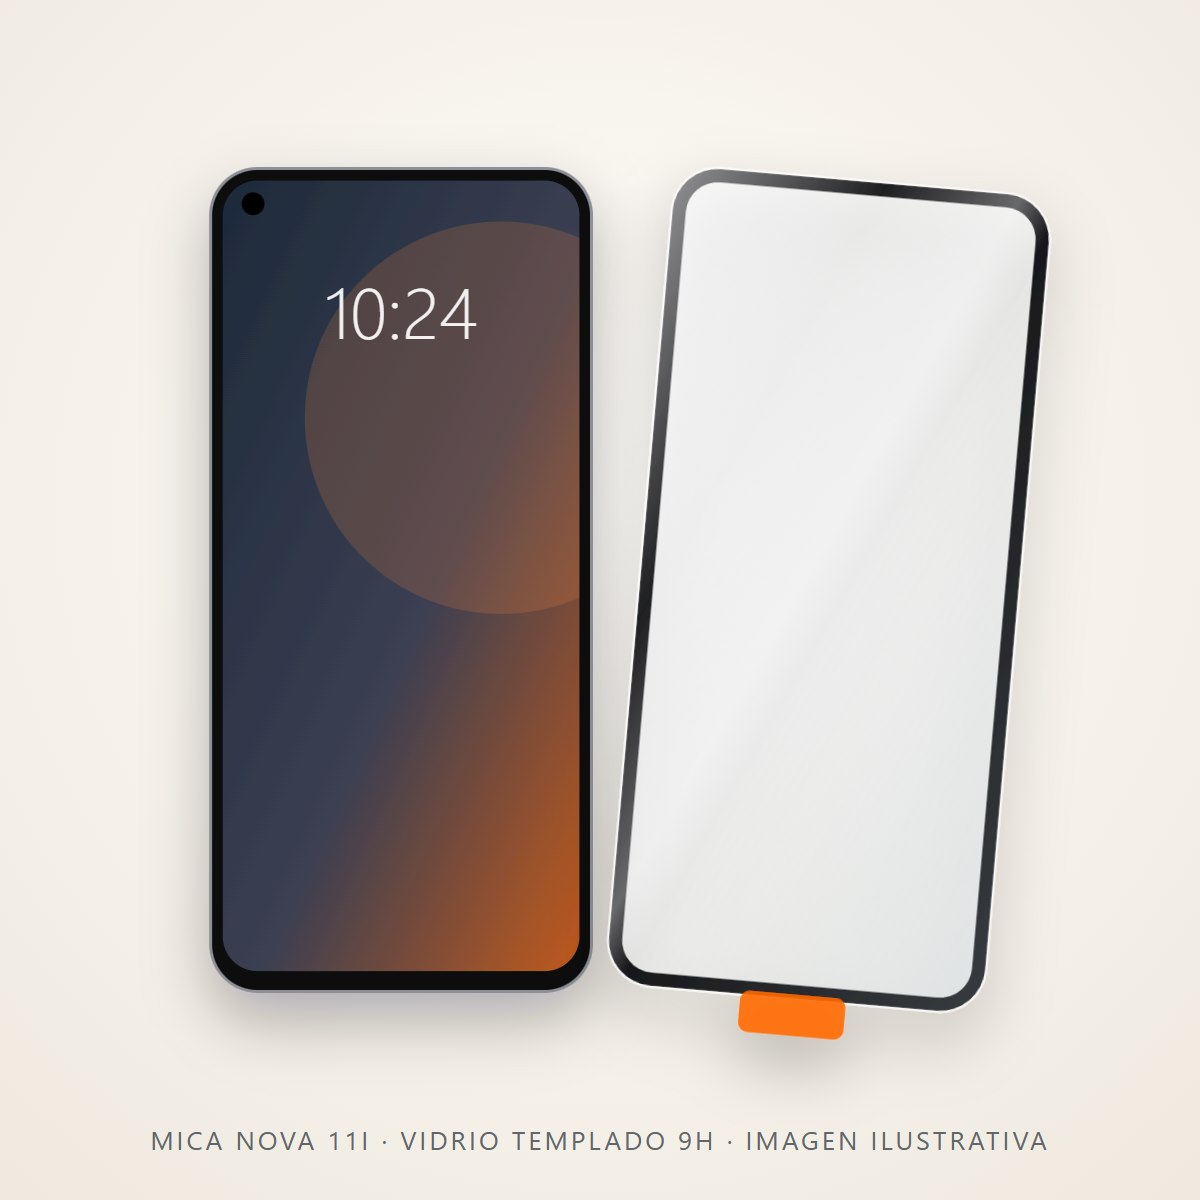
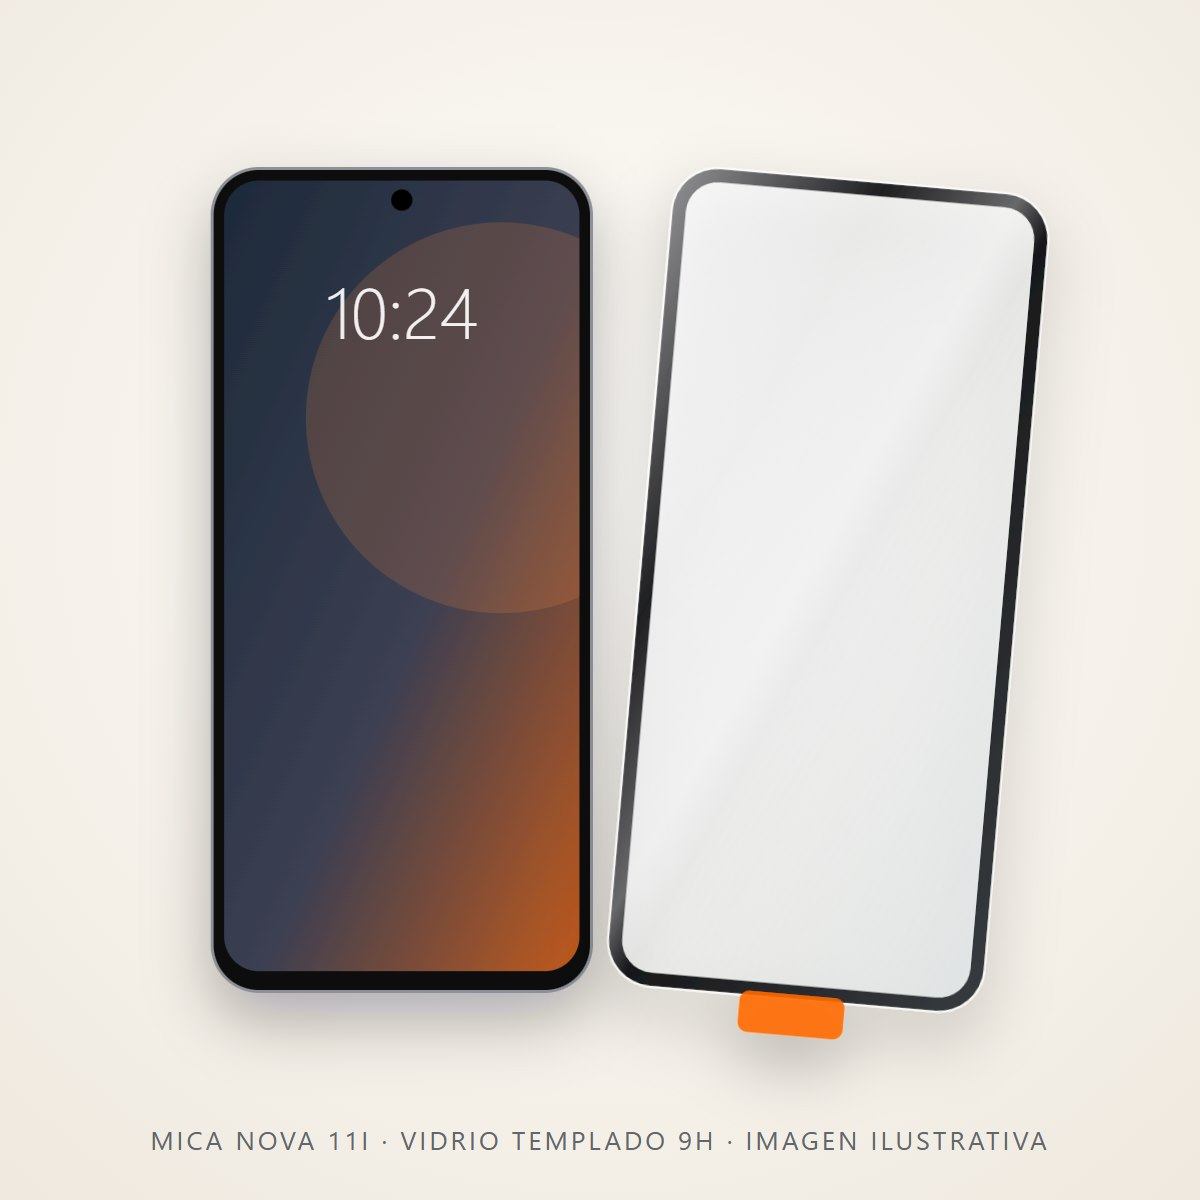
Datos reales del teléfono y fotos reales de cada modelo
Ficha con pantalla, medidas, lanzamiento y versión compatible de cada
teléfono; fotos libres de Wikimedia de 13 modelos en la galería con
créditos; corrige el render del nova 11i (perforación centrada).

diff --git a/tools/render-modelos.js b/tools/render-modelos.js
@@ -4,16 +4,16 @@
 // como themes/case-tech/demo-<tipo>-<modelo>.jpg. Para un modelo nuevo, añádelo a MODELS y JOBS.
 async (page) => {
 
-// Medidas reales aproximadas (mm) y tipo de recorte de pantalla de cada modelo.
+// Medidas reales (mm, fichas del fabricante/Wikipedia) y tipo de recorte de pantalla de cada modelo.
 const MODELS = {
   'iphone-15':     { name: 'iPhone 15',     w: 71.6, h: 147.6, r: 0.17, bezel: 0.035, chin: 0.035, cut: 'island', home: true },
   'iphone-13':     { name: 'iPhone 13',     w: 71.5, h: 146.7, r: 0.17, bezel: 0.035, chin: 0.035, cut: 'notch',  home: true },
   'galaxy-a15':    { name: 'Galaxy A15',    w: 76.8, h: 160.1, r: 0.11, bezel: 0.03,  chin: 0.075, cut: 'drop' },
   'galaxy-a55':    { name: 'Galaxy A55',    w: 77.4, h: 161.1, r: 0.12, bezel: 0.03,  chin: 0.045, cut: 'hole' },
-  'nova-11i':      { name: 'nova 11i',      w: 75.8, h: 164.5, r: 0.12, bezel: 0.028, chin: 0.05,  cut: 'hole-left' },
+  'nova-11i':      { name: 'nova 11i',      w: 75.55, h: 164.6, r: 0.12, bezel: 0.028, chin: 0.05,  cut: 'hole' },
   'p30-lite':      { name: 'P30 lite',      w: 72.7, h: 152.9, r: 0.11, bezel: 0.03,  chin: 0.075, cut: 'drop' },
-  'poco-x6':       { name: 'POCO X6',       w: 74.3, h: 161.2, r: 0.12, bezel: 0.026, chin: 0.04,  cut: 'hole' },
-  'redmi-note-13': { name: 'Redmi Note 13', w: 75.6, h: 162.2, r: 0.12, bezel: 0.028, chin: 0.045, cut: 'hole' },
+  'poco-x6':       { name: 'POCO X6',       w: 74.24, h: 161.15, r: 0.12, bezel: 0.026, chin: 0.04,  cut: 'hole' },
+  'redmi-note-13': { name: 'Redmi Note 13', w: 75.6, h: 162.3, r: 0.12, bezel: 0.028, chin: 0.045, cut: 'hole' },
 };
 
 function phoneFront(m, x, y, H, id) {
@@ -25,7 +25,6 @@ function phoneFront(m, x, y, H, id) {
   if (m.cut === 'notch') { const nw = sw * 0.42, nh = sw * 0.085, k = nh * 0.6; cut = `<path d="M${cx - nw / 2 - k} ${sy} q${k} 0 ${k} ${k * 0.8} v${nh - k * 1.4} q0 ${k * 0.6} ${k * 0.8} ${k * 0.6} h${nw - 1.6 * k} q${k * 0.8} 0 ${k * 0.8} ${-k * 0.6} v${-(nh - k * 1.4)} q0 ${-k * 0.8} ${k} ${-k * 0.8} z" fill="#050505"/>`; }
   if (m.cut === 'drop') { const dw = sw * 0.12, dh = sw * 0.065; cut = `<path d="M${cx - dw} ${sy} q${dw * 0.45} 0 ${dw * 0.55} ${dh * 0.5} a${dw * 0.45} ${dh * 0.55} 0 0 0 ${dw * 0.9} 0 q${dw * 0.1} ${-dh * 0.5} ${dw * 0.55} ${-dh * 0.5} z" fill="#050505"/>`; }
   if (m.cut === 'hole') cut = `<circle cx="${cx}" cy="${sy + sw * 0.055}" r="${sw * 0.03}" fill="#050505"/>`;
-  if (m.cut === 'hole-left') cut = `<circle cx="${sx + sw * 0.085}" cy="${sy + sw * 0.065}" r="${sw * 0.032}" fill="#050505"/>`;
   const home = m.home ? `<rect x="${cx - sw * 0.17}" y="${sy + sh - sw * 0.035}" width="${sw * 0.34}" height="${sw * 0.012}" rx="${sw * 0.006}" fill="rgba(255,255,255,.75)"/>` : '';
   return `
   <defs>

diff --git a/wordpress/wp-content/plugins/case-tech-custom/import-demo-products.php b/wordpress/wp-content/plugins/case-tech-custom/import-demo-products.php
@@ -109,6 +109,59 @@ $image_colors = array(
     'demo-xiaomi-poco-x6-case.jpg'       => 'Negro con detalles naranja',
 );
 
+// Datos reales del teléfono: pantalla, medidas (alto × ancho × grosor) y año de lanzamiento.
+// Fuente: fichas del fabricante y Wikipedia, consultadas en nov. 2026 (ver docs/PROJECT-MEMORY.md).
+$phone_specs = array(
+    'iPhone 11'     => array( '6.1" LCD', '150.9 × 75.7 × 8.3 mm', '2019' ),
+    'iPhone 12'     => array( '6.1" OLED', '146.7 × 71.5 × 7.4 mm', '2020' ),
+    'iPhone 13'     => array( '6.1" OLED', '146.7 × 71.5 × 7.65 mm', '2021' ),
+    'iPhone 14'     => array( '6.1" OLED', '146.7 × 71.5 × 7.8 mm', '2022' ),
+    'iPhone 15'     => array( '6.1" OLED', '147.6 × 71.6 × 7.8 mm', '2023' ),
+    'Galaxy A15'    => array( '6.5" Super AMOLED', '160.1 × 76.8 × 8.4 mm', '2023' ),
+    'Galaxy A25'    => array( '6.5" Super AMOLED', '161.0 × 76.5 × 8.3 mm', '2023' ),
+    'Galaxy A55'    => array( '6.6" Super AMOLED', '161.1 × 77.4 × 8.2 mm', '2024' ),
+    'Galaxy S23'    => array( '6.1" Dynamic AMOLED 2X', '146.3 × 70.9 × 7.6 mm', '2023' ),
+    'Galaxy S24'    => array( '6.2" Dynamic AMOLED 2X', '147.0 × 70.6 × 7.6 mm', '2024' ),
+    'Y9a'           => array( '6.63" LCD', '163.5 × 76.5 × 8.95 mm', '2020' ),
+    'nova 11i'      => array( '6.8" LCD', '164.6 × 75.55 × 8.55 mm', '2023' ),
+    'nova 12i'      => array( '6.7" LCD', '163.3 × 74.7 × 8.4 mm', '2024' ),
+    'nova Y70'      => array( '6.75" LCD', '168.3 × 77.7 × 8.98 mm', '2022' ),
+    'P30 lite'      => array( '6.15" LCD', '152.9 × 72.7 × 7.4 mm', '2019' ),
+    'Redmi 13C'     => array( '6.74" LCD', '168 × 78 × 8.09 mm', '2023' ),
+    'Redmi Note 13' => array( '6.67" AMOLED', '162.3 × 75.6 × 8.0 mm', '2024' ),
+    'POCO X6'       => array( '6.67" AMOLED', '161.15 × 74.24 × 7.98 mm', '2024' ),
+    'Redmi 12'      => array( '6.79" LCD', '168.6 × 76.3 × 8.2 mm', '2023' ),
+    'Redmi Note 12' => array( '6.67" AMOLED', '165.7 × 76 × 7.9 mm', '2023' ),
+);
+
+// Versión exacta cuando existe otra con distinto tamaño o cámaras (no comparten accesorios).
+$phone_versions = array(
+    'Galaxy A15'    => 'Galaxy A15 4G (SM-A155F)',
+    'Galaxy A25'    => 'Galaxy A25 5G (única versión)',
+    'Redmi 13C'     => 'Redmi 13C 4G (no apto para 13C 5G)',
+    'Redmi Note 13' => 'Redmi Note 13 4G (no apto para la versión 5G)',
+    'POCO X6'       => 'POCO X6 5G (no apto para X6 Pro)',
+    'Redmi 12'      => 'Redmi 12 4G (no apto para Redmi 12 5G)',
+    'Redmi Note 12' => 'Redmi Note 12 4G (no apto para la versión 5G)',
+);
+
+// Foto real del teléfono (Wikimedia Commons) que se añade a la galería de todos sus productos.
+$phone_photos = array(
+    'iPhone 11'     => 'telefono-iphone-11.jpg',
+    'iPhone 12'     => 'telefono-iphone-12.jpg',
+    'iPhone 13'     => 'telefono-iphone-13.jpg',
+    'iPhone 14'     => 'telefono-iphone-14.jpg',
+    'iPhone 15'     => 'telefono-iphone-15.jpg',
+    'Galaxy A15'    => 'telefono-galaxy-a15.jpg',
+    'Galaxy A25'    => 'telefono-galaxy-a25.jpg',
+    'Galaxy A55'    => 'telefono-galaxy-a55.jpg',
+    'Galaxy S23'    => 'telefono-galaxy-s23.jpg',
+    'nova 11i'      => 'telefono-nova-11i.jpg',
+    'P30 lite'      => 'telefono-p30-lite.jpg',
+    'Redmi 12'      => 'telefono-redmi-12.jpg',
+    'Redmi Note 12' => 'telefono-redmi-note-12.jpg',
+);
+
 // Fotos reales de galería por tipo; sin entrada, se usa un acercamiento de la foto principal.
 $type_gallery = array(
     'Funda' => array( 'demo-funda-abierta.jpg', 'demo-funda-correa.jpg' ),
@@ -339,7 +392,17 @@ foreach ( $catalog as $item ) {
         $color_attribute->set_variation( true );
         $product_attributes[] = $color_attribute;
     }
-    $specs = $type_specs[ $type ];
+    $specs = array();
+    if ( isset( $phone_versions[ $item['model'] ] ) ) {
+        $specs['Versión compatible'] = $phone_versions[ $item['model'] ];
+    }
+    if ( isset( $phone_specs[ $item['model'] ] ) ) {
+        list( $screen, $size, $year ) = $phone_specs[ $item['model'] ];
+        $specs['Pantalla del teléfono']    = $screen;
+        $specs['Medidas del teléfono']     = $size;
+        $specs['Lanzamiento del teléfono'] = $year;
+    }
+    $specs += $type_specs[ $type ];
     if ( ! $is_variable && isset( $image_colors[ $item['image'] ] ) ) {
         $specs['Color'] = $image_colors[ $item['image'] ];
     }
@@ -376,6 +439,10 @@ foreach ( $catalog as $item ) {
             }
         } else {
             $gallery_ids[] = case_tech_demo_attachment( $image_path, 'detalle-' . $item['image'], 'Detalle demo: ' . $item['model'], true );
+        }
+        $phone_photo = isset( $phone_photos[ $item['model'] ] ) ? $phone_photos[ $item['model'] ] : '';
+        if ( $phone_photo && file_exists( $base_dir . $phone_photo ) ) {
+            $gallery_ids[] = case_tech_demo_attachment( $base_dir . $phone_photo, $phone_photo, 'Teléfono compatible: ' . $item['model'] );
         }
         $product->set_gallery_image_ids( array_filter( $gallery_ids ) );
     } else {
@@ -430,6 +497,19 @@ $image_credits = array(
     'demo-funda-abierta.jpg' => 'Foto: Acabashi, CC BY-SA 4.0 (Wikimedia Commons)',
     'demo-mica.jpg'          => 'Foto: Rann Vijay (Pexels)',
     'demo-mica-limpieza.jpg' => 'Foto: Towfiqu barbhuiya (Pexels)',
+    'telefono-iphone-11.jpg'     => 'Teléfono compatible. Foto: Ahmadkurdi44, CC BY-SA 4.0 (Wikimedia Commons)',
+    'telefono-iphone-12.jpg'     => 'Teléfono compatible. Foto: KKPCW, CC BY-SA 4.0 (Wikimedia Commons)',
+    'telefono-iphone-13.jpg'     => 'Teléfono compatible. Foto: 人工知能, CC BY-SA 4.0 (Wikimedia Commons)',
+    'telefono-iphone-14.jpg'     => 'Teléfono compatible. Foto: Hajoon0102, CC BY-SA 4.0 (Wikimedia Commons)',
+    'telefono-iphone-15.jpg'     => 'Teléfono compatible. Foto: ThePhotoGraphIc, CC BY-SA 4.0 (Wikimedia Commons)',
+    'telefono-galaxy-a15.jpg'    => 'Teléfono compatible. Foto: PantheraLeo1359531, CC BY 4.0 (Wikimedia Commons)',
+    'telefono-galaxy-a25.jpg'    => 'Teléfono compatible. Foto: Captainmorlypogi1959, CC BY-SA 4.0 (Wikimedia Commons)',
+    'telefono-galaxy-a55.jpg'    => 'Teléfono compatible. Foto: Captainmorlypogi1959, CC BY-SA 4.0 (Wikimedia Commons)',
+    'telefono-galaxy-s23.jpg'    => 'Teléfono compatible. Foto: Hajoon0102, CC BY-SA 4.0 (Wikimedia Commons)',
+    'telefono-nova-11i.jpg'      => 'Teléfono compatible. Foto: Maksdroider, CC BY-SA 4.0 (Wikimedia Commons)',
+    'telefono-p30-lite.jpg'      => 'Teléfono compatible. Foto: EEIM, CC BY-SA 4.0 (Wikimedia Commons)',
+    'telefono-redmi-12.jpg'      => 'Teléfono compatible. Foto: Maksdroider, CC BY-SA 4.0 (Wikimedia Commons)',
+    'telefono-redmi-note-12.jpg' => 'Teléfono compatible. Foto: Maksdroider, CC BY-SA 4.0 (Wikimedia Commons)',
 );
 foreach ( $image_credits as $source_key => $credit ) {
     foreach ( array( $source_key, 'detalle-' . $source_key ) as $key ) {

diff --git a/wordpress/wp-content/themes/case-tech/CREDITOS-IMAGENES.md b/wordpress/wp-content/themes/case-tech/CREDITOS-IMAGENES.md
@@ -11,3 +11,25 @@ Cambios: recortes y redimensionado. Las versiones modificadas de fotos CC BY-SA 
 Son fotos genéricas del tipo de producto, no del modelo exacto.
 
 Los renders por modelo (`demo-mica-<modelo>.jpg`, `demo-funda-<modelo>.jpg`) se dibujaron para este proyecto en SVG con las medidas y el recorte de pantalla de cada teléfono; son ilustrativos.
+
+## Fotos de los teléfonos compatibles (Wikimedia Commons)
+
+Se añaden a la galería de cada producto de ese modelo. Redimensionadas a 1200 px como máximo; la del Galaxy S23 se recortó para dejar solo el S23 base.
+
+| Archivo | Origen | Autor | Licencia |
+|---|---|---|---|
+| `telefono-iphone-11.jpg` | [IPhone 11 RED.jpg](https://commons.wikimedia.org/wiki/File:IPhone_11_RED.jpg) | Ahmadkurdi44 | [CC BY-SA 4.0](https://creativecommons.org/licenses/by-sa/4.0) |
+| `telefono-iphone-12.jpg` | [IPhone 12 - 3.jpg](https://commons.wikimedia.org/wiki/File:IPhone_12_-_3.jpg) | KKPCW | [CC BY-SA 4.0](https://creativecommons.org/licenses/by-sa/4.0) |
+| `telefono-iphone-13.jpg` | [IPhone 13 camera lens group.jpg](https://commons.wikimedia.org/wiki/File:IPhone_13_camera_lens_group.jpg) | 人工知能 | [CC BY-SA 4.0](https://creativecommons.org/licenses/by-sa/4.0) |
+| `telefono-iphone-14.jpg` | [IPhone 14 Product Red.jpg](https://commons.wikimedia.org/wiki/File:IPhone_14_Product_Red.jpg) | Hajoon0102 | [CC BY-SA 4.0](https://creativecommons.org/licenses/by-sa/4.0) |
+| `telefono-iphone-15.jpg` | [Back of iPhone 15.jpg](https://commons.wikimedia.org/wiki/File:Back_of_iPhone_15.jpg) | ThePhotoGraphIc | [CC BY-SA 4.0](https://creativecommons.org/licenses/by-sa/4.0) |
+| `telefono-galaxy-a15.jpg` | [Samsung Galaxy A15 20240529 HOF7502 RAW-Export cens.png](https://commons.wikimedia.org/wiki/File:Samsung_Galaxy_A15_20240529_HOF7502_RAW-Export_cens.png) | PantheraLeo1359531 | [CC BY 4.0](https://creativecommons.org/licenses/by/4.0) |
+| `telefono-galaxy-a25.jpg` | [Samsung Galaxy A25 5G 2024 (cropped).jpg](https://commons.wikimedia.org/wiki/File:Samsung_Galaxy_A25_5G_2024_(cropped).jpg) | Captainmorlypogi1959 | [CC BY-SA 4.0](https://creativecommons.org/licenses/by-sa/4.0) |
+| `telefono-galaxy-a55.jpg` | [Samsung Galaxy A55 5G 2024 (cropped).jpg](https://commons.wikimedia.org/wiki/File:Samsung_Galaxy_A55_5G_2024_(cropped).jpg) | Captainmorlypogi1959 | [CC BY-SA 4.0](https://creativecommons.org/licenses/by-sa/4.0) |
+| `telefono-galaxy-s23.jpg` | [Back of the Samsung Galaxy S23.jpg](https://commons.wikimedia.org/wiki/File:Back_of_the_Samsung_Galaxy_S23.jpg) | Hajoon0102 | [CC BY-SA 4.0](https://creativecommons.org/licenses/by-sa/4.0) |
+| `telefono-nova-11i.jpg` | [Huawei Nova 11i back.jpg](https://commons.wikimedia.org/wiki/File:Huawei_Nova_11i_back.jpg) | Maksdroider | [CC BY-SA 4.0](https://creativecommons.org/licenses/by-sa/4.0) |
+| `telefono-p30-lite.jpg` | [Huawei P30 lite.jpg](https://commons.wikimedia.org/wiki/File:Huawei_P30_lite.jpg) | EEIM | [CC BY-SA 4.0](https://creativecommons.org/licenses/by-sa/4.0) |
+| `telefono-redmi-12.jpg` | [Redmi 12 back.jpg](https://commons.wikimedia.org/wiki/File:Redmi_12_back.jpg) | Maksdroider | [CC BY-SA 4.0](https://creativecommons.org/licenses/by-sa/4.0) |
+| `telefono-redmi-note-12.jpg` | [Redmi Note 12 back.jpg](https://commons.wikimedia.org/wiki/File:Redmi_Note_12_back.jpg) | Maksdroider | [CC BY-SA 4.0](https://creativecommons.org/licenses/by-sa/4.0) |
+
+Sin foto libre disponible: Galaxy S24, Y9a, nova 12i, nova Y70, Redmi 13C, Redmi Note 13 y POCO X6.

diff --git a/docs/PROJECT-MEMORY.md b/docs/PROJECT-MEMORY.md
@@ -420,3 +420,11 @@ Registrar decisiones, avances, problemas, alertas y cambios relevantes para que 
 - **Solución:** no hay fotos libres de cada modelo con su mica o funda, así que la foto principal es un render SVG por modelo (`tools/render-modelos.js`), con las proporciones reales y el recorte de pantalla de cada teléfono: Dynamic Island (iPhone 15), muesca (iPhone 13), gota (Galaxy A15, P30 lite), perforación a la izquierda (nova 11i) y perforación centrada (Galaxy A55, POCO X6, Redmi Note 13). Micas: teléfono y vidrio a la par. Fundas: funda abierta con tarjetero y el teléfono dentro. Llevan el nombre del modelo y "imagen ilustrativa".
 - **Galería:** las fotos reales quedan como imágenes 2 y 3 por tipo (`$type_gallery` acepta varias): funda abierta y funda con correa (Wikimedia); mica en mano y limpieza de pantalla (Pexels). Se quitaron `demo-funda.jpg` y `demo-mica-2.jpg`.
 - **Pendiente:** los cases de modelos nuevos (iPhone 12 y 14, Galaxy A25 y S23, nova 12i y Y70, Redmi 12 y Note 12) aún reutilizan el render del modelo más parecido; la cámara de algunos (p. ej. nova Y70) no coincide.
+
+### 2026-11-11 — Datos reales del teléfono y fotos reales de cada modelo
+
+- **Decisión del usuario:** fotos libres del teléfono en la galería y datos reales del teléfono en la ficha. Precios, existencias, compatibilidad física y pagos siguen siendo demostrativos.
+- **Ficha técnica:** cada producto muestra pantalla, medidas (alto × ancho × grosor) y año de lanzamiento del teléfono (`$phone_specs`), y "Versión compatible" cuando existe otra versión con distinto tamaño o cámaras (`$phone_versions`: Galaxy A15 4G SM-A155F, A25 solo 5G, Redmi 13C 4G, Redmi Note 13 4G, POCO X6 5G y no X6 Pro, Redmi 12 4G, Redmi Note 12 4G). Fuentes: Wikipedia y fichas oficiales de Huawei y POCO; GSMArena bloquea a los bots. Algunos valores (medidas del P30 lite, fecha del nova Y70) vienen de resúmenes de búsqueda y no de una página abierta.
+- **Fotos de teléfonos:** 13 de los 20 modelos tienen foto real en Wikimedia Commons (`telefono-<modelo>.jpg`, `$phone_photos`), que se añade al final de la galería de sus productos con el crédito en la leyenda. Sin foto libre: Galaxy S24, Y9a, nova 12i, nova Y70, Redmi 13C, Redmi Note 13 y POCO X6. Commons responde 429 si se descarga rápido: usar `Special:FilePath/<archivo>?width=960` con pausas.
+- **Corrección:** el nova 11i tiene la perforación de la cámara frontal al centro (comprobado con la foto frontal de Commons), no a la izquierda; se rehicieron su render de mica y los de POCO X6 y Redmi Note 13 con las medidas verificadas.
+- **Hallazgo pendiente:** algunos renders de cases no coinciden con la cámara trasera real, lo que ahora se nota junto a la foto del teléfono. Por ejemplo, el P30 lite tiene 3 cámaras verticales arriba a la izquierda y su render muestra un módulo circular; el nova Y70 y el nova 12i reutilizan renders de otros modelos.
